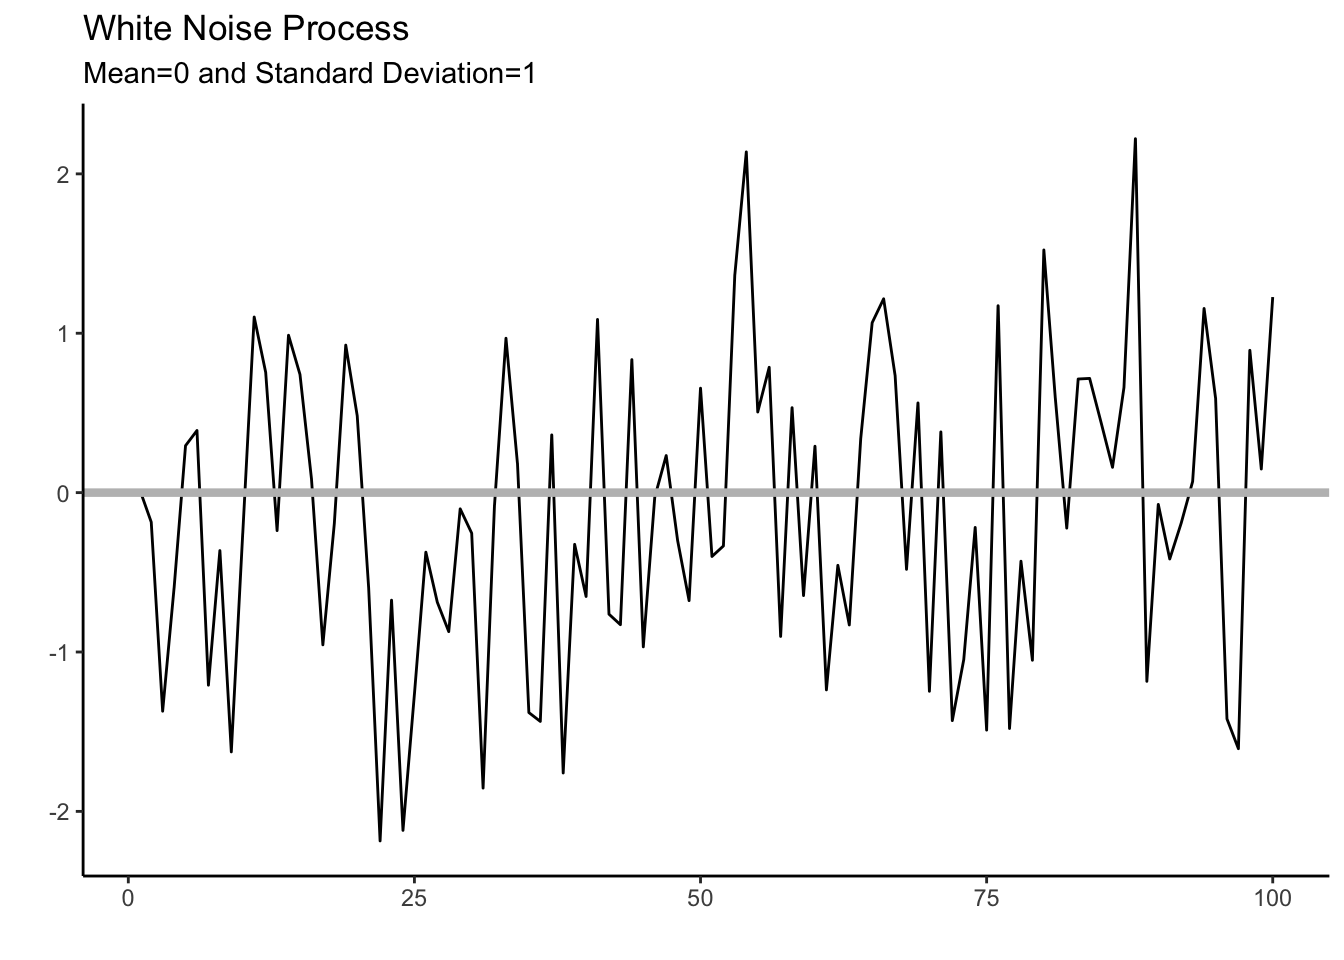
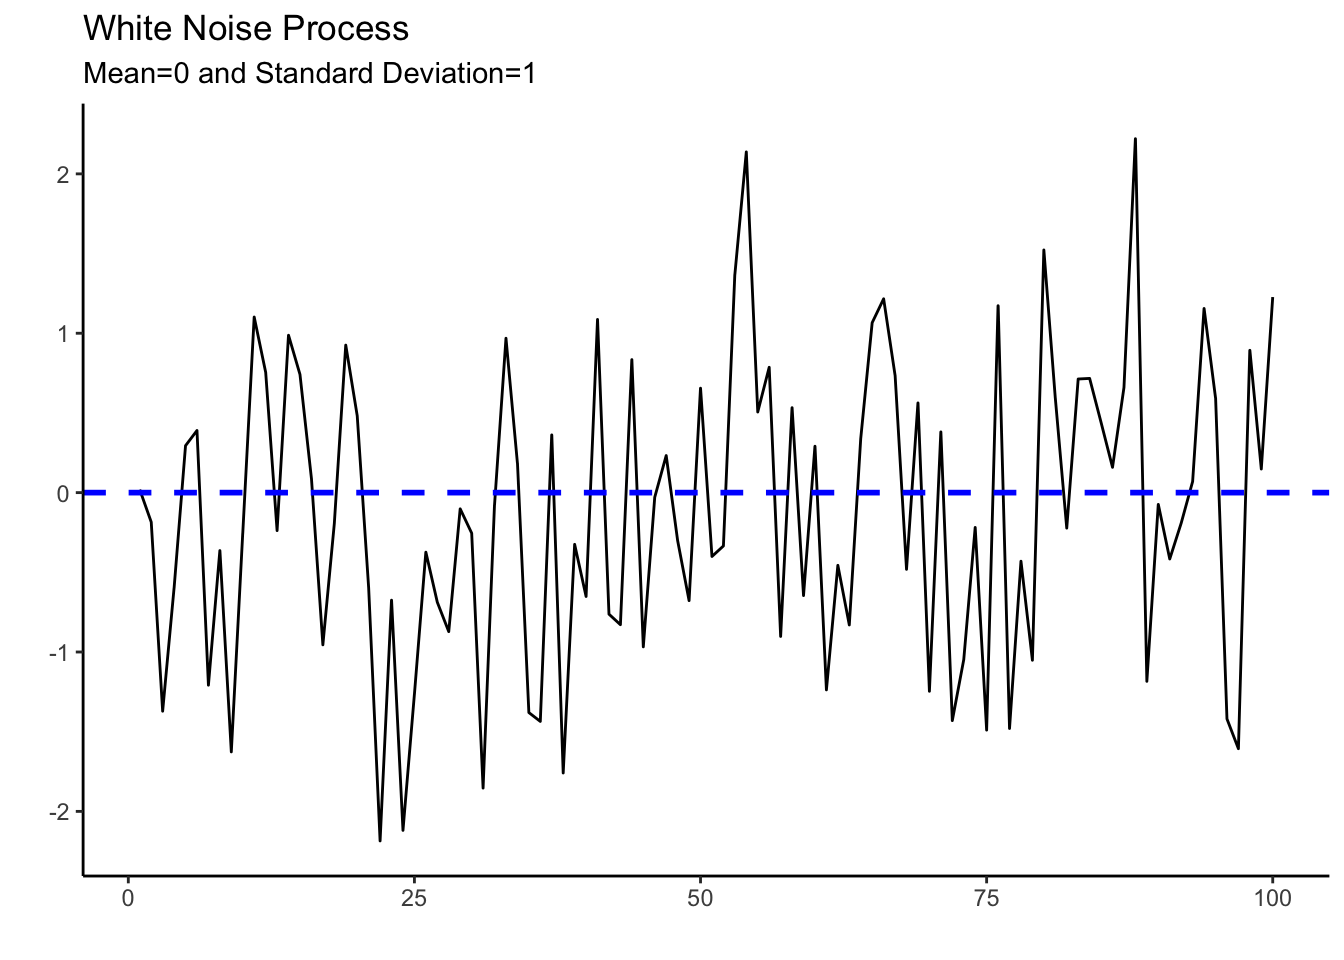
changes to Arima

Changed region(s): [[0.0625, 0.5, 1.0, 0.5312]]

diff --git a/docs/ARIMA.html b/docs/ARIMA.html
@@ -260,7 +260,8 @@ code span.wa { color: #60a0b0; font-weight: bold; font-style: italic; } /* Warni
 <div class="sourceCode cell-code" id="cb2"><pre class="sourceCode r code-with-copy"><code class="sourceCode r"><span id="cb2-1"><a href="#cb2-1" aria-hidden="true" tabindex="-1"></a>wn <span class="sc">%&gt;%</span> <span class="fu">autoplot</span>(x) <span class="sc">+</span> <span class="fu">theme_classic</span>() <span class="sc">+</span> </span>
 <span id="cb2-2"><a href="#cb2-2" aria-hidden="true" tabindex="-1"></a>  <span class="fu">labs</span>(<span class="at">title=</span><span class="st">"White Noise Process"</span>,</span>
 <span id="cb2-3"><a href="#cb2-3" aria-hidden="true" tabindex="-1"></a>       <span class="at">subtitle=</span><span class="st">"Mean=0 and Standard Deviation=1"</span>,</span>
-<span id="cb2-4"><a href="#cb2-4" aria-hidden="true" tabindex="-1"></a><span class="at">x=</span><span class="st">""</span>,<span class="at">y=</span><span class="st">""</span>) <span class="sc">+</span> <span class="fu">geom_hline</span>(<span class="at">yintercept =</span> <span class="dv">0</span>, <span class="at">col=</span><span class="st">"gray"</span>, <span class="at">lwd=</span><span class="fl">1.5</span>)</span></code><button title="Copy to Clipboard" class="code-copy-button"><i class="bi"></i></button></pre></div>
+<span id="cb2-4"><a href="#cb2-4" aria-hidden="true" tabindex="-1"></a><span class="at">x=</span><span class="st">""</span>,<span class="at">y=</span><span class="st">""</span>) <span class="sc">+</span> </span>
+<span id="cb2-5"><a href="#cb2-5" aria-hidden="true" tabindex="-1"></a>  <span class="fu">geom_hline</span>(<span class="at">yintercept =</span> <span class="dv">0</span>, <span class="at">col=</span><span class="st">"blue"</span>, <span class="at">lwd=</span><span class="dv">1</span>, <span class="at">linetype=</span><span class="st">"dashed"</span>)</span></code><button title="Copy to Clipboard" class="code-copy-button"><i class="bi"></i></button></pre></div>
 <div class="cell-output-display">
 <p><img src="ARIMA_files/figure-html/unnamed-chunk-2-1.png" class="img-fluid" width="672"></p>
 </div>
@@ -860,7 +861,7 @@ code span.wa { color: #60a0b0; font-weight: bold; font-style: italic; } /* Warni
 <div class="cell">
 <div class="sourceCode cell-code" id="cb14"><pre class="sourceCode r code-with-copy"><code class="sourceCode r"><span id="cb14-1"><a href="#cb14-1" aria-hidden="true" tabindex="-1"></a>PI_fit<span class="ot">&lt;-</span>PI_train <span class="sc">%&gt;%</span> </span>
 <span id="cb14-2"><a href="#cb14-2" aria-hidden="true" tabindex="-1"></a>  <span class="fu">model</span>(<span class="at">AR1 =</span> <span class="fu">AR</span>(PI_Growth <span class="sc">~</span> <span class="fu">order</span>(<span class="dv">1</span>)),</span>
-<span id="cb14-3"><a href="#cb14-3" aria-hidden="true" tabindex="-1"></a>        <span class="at">LS =</span> <span class="fu">TSLM</span>(PI_Growth <span class="sc">~</span> Date))</span></code><button title="Copy to Clipboard" class="code-copy-button"><i class="bi"></i></button></pre></div>
+<span id="cb14-3"><a href="#cb14-3" aria-hidden="true" tabindex="-1"></a>        <span class="at">LS =</span> <span class="fu">TSLM</span>(PI_Growth <span class="sc">~</span> <span class="fu">trend</span>()))</span></code><button title="Copy to Clipboard" class="code-copy-button"><i class="bi"></i></button></pre></div>
 </div>
 <div class="cell">
 <div class="cell-output-display">
@@ -1308,12 +1309,12 @@ code span.wa { color: #60a0b0; font-weight: bold; font-style: italic; } /* Warni
 <td headers="p.value" class="gt_row gt_center">0.00</td></tr>
     <tr><td headers=".model" class="gt_row gt_center">LS</td>
 <td headers="term" class="gt_row gt_center">(Intercept)</td>
-<td headers="estimate" class="gt_row gt_center">337.53</td>
-<td headers="std.error" class="gt_row gt_center">74.82</td>
-<td headers="statistic" class="gt_row gt_center">4.51</td>
+<td headers="estimate" class="gt_row gt_center">9.19</td>
+<td headers="std.error" class="gt_row gt_center">0.80</td>
+<td headers="statistic" class="gt_row gt_center">11.50</td>
 <td headers="p.value" class="gt_row gt_center">0.00</td></tr>
     <tr><td headers=".model" class="gt_row gt_center">LS</td>
-<td headers="term" class="gt_row gt_center">Date</td>
+<td headers="term" class="gt_row gt_center">trend()</td>
 <td headers="estimate" class="gt_row gt_center">−0.17</td>
 <td headers="std.error" class="gt_row gt_center">0.04</td>
 <td headers="statistic" class="gt_row gt_center">−4.43</td>
